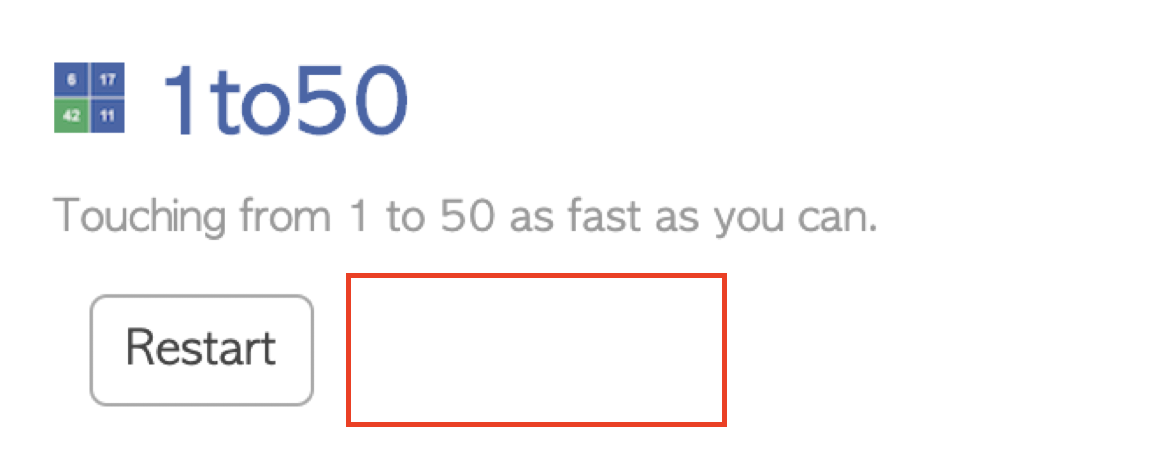
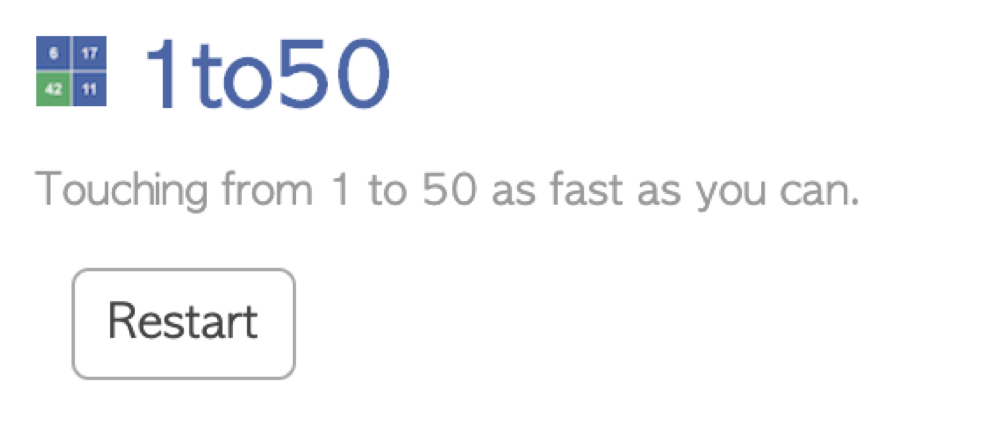
第一篇幾乎完成

Changed region(s): [[0.062, 0.5639, 0.62, 0.9201], [0.031, 0.3858, 0.868, 0.5046], [0.031, 0.0594, 0.403, 0.2968]]

diff --git a/1. 1 to 50/README.md b/1. 1 to 50/README.md
@@ -14,7 +14,7 @@
 * 達成作弊般的成績
 
 
-## 關注的知識點
+## 你將會學到
 * 什麼是變數
 * 資料型態是什麼， number , string 又是什麼
 * 如何使用 for 迴圈  
@@ -40,34 +40,32 @@
 
 ### 思考邏輯
 
-一般來說在撰寫程式的之前，要先思考現在要完成的這個功能，需要怎麼做，如何做，需要什麼樣的資訊才能夠做，我們回顧一下第一個目標：實作出類似大家來找碴的提示按鈕
+一般來說在撰寫程式的之前，要先思考現在要完成的這個功能，需要怎麼做，如何做，需要什麼樣的資訊才能夠做，回顧一下第一個目標 > 實作出類似大家來找碴的提示按鈕
 
-1 to 50 這款遊戲，是從 1 開始點到 50 ，點完後的數字會消失，我們可以發現，**我們每次要點擊的位置 就是盤上最小的數字**，我們能夠簡單的分析出待會程式的行為
+1 to 50 這款遊戲，是從 1 開始點到 50 ，點完後的數字會消失，可以發現，**我們每次要點擊的位置 就是盤上最小的數字**，能夠簡單的想像出待會程式的行為
 
 	點擊按鈕 > 找最小的數字 > 對最小數字的格子提示特效
 
-所以我們要做的事情有兩個
+所以要做的事情有兩個
 
 	1.在畫面上放一個按鈕
 	2.給予這個按鈕，找最小的數字並且顯示提示特效的能力
 
-我們可以開啟開發人員工具來觀察這個遊戲的html
+為了獲得足夠的資訊來開發這個功能，我們可以開啟開發人員工具來觀察這個遊戲的html
 
 ![1 to 50](https://raw.githubusercontent.com/jj811208/htmlGameCheat/master/asset/1.4.png)
 
-首先需要找到可以放按鈕的地方，這邊我發現遊戲中有一個reset按鈕，等等提示的按鈕可以放到它旁邊，按鈕的樣式他都寫好了，可以偷懶一下直接拿他的來用
-
-![1 to 50](https://raw.githubusercontent.com/jj811208/htmlGameCheat/master/asset/1.5.png)
+首先需要找到可以放按鈕的地方，這邊我發現遊戲中有一個Restart按鈕，等等提示的按鈕可以放到它旁邊，按鈕的樣式他都寫好了，可以偷懶直接拿他的來用
 
 接著再繼續觀察，可以發現整個遊戲盤都被裝在`<div class="grid x5" id="grid">`裡面
 
 ![1 to 50](https://raw.githubusercontent.com/jj811208/htmlGameCheat/master/asset/1.6.png)
 
-點開它底下的div就可以看到棋盤上的數字了，
-
 ![1 to 50](https://raw.githubusercontent.com/jj811208/htmlGameCheat/master/asset/1.7.png)
 
-其實到了這邊，我們就已經整理出所有我們需要的資訊了，可以開始實作我們的程式碼
+▲把div點開就可以看到棋盤上的數字了，
+
+其實到了這邊，我們就已經整理出所有開發功能需要的資訊了，可以開始進入實作的環節
 
 ### 實作
 
@@ -76,6 +74,7 @@
 >而id的功用在這邊只是幫他取名字，等等javascript才方便把提示的能力指定給它。
 
 ![1 to 50](https://raw.githubusercontent.com/jj811208/htmlGameCheat/master/asset/1.10.png)
+
 ▲成功的話應該會在Restart旁邊看到我們的按鈕
 
 按鈕出來了以後就要開始進到javascript的部分了，首先必須要讓javascript能夠找到按鈕以及遊戲盤上所有的格子，這邊我們可以使用 document.querySelector 以及 document.querySelectorAll 這兩個瀏覽器提供的能力來選擇html上的元素(注意大小寫)
@@ -92,7 +91,9 @@ var gameBlock = document.querySelectorAll('#grid > div');
 > 一個東西上做一件事來觸發一個行為
 > 
 > 一個東西：	按鈕
+> 
 > 一件事：		點擊       
+> 
 > 一個行為：	提示
 
 這裡的程式碼也很直覺
@@ -106,7 +107,7 @@ secretButton.addEventListener('click',/*提示功能*/)
 
 > addEventListener('click',xxxx) 意思就是點擊(click)的時候會觸發xxxx
 
-這樣寫提示功能上去當然是沒有效果的，程式語言沒有這種黑魔法，功能的邏輯要靠我們自己去實作的，這邊我們可以寫入我們之前想要達到的程式行為：找最小的數字並且顯示提示特效
+這樣寫提示功能上去當然是沒有效果的，程式語言沒有這種黑魔法，功能的邏輯要靠我們自己去實作的，不過邏輯我們在剛剛就已經想好了，找最小的數字並且顯示提示特效
 
 ```javascript
 var secretButton = document.querySelector('#secretButton')
@@ -139,11 +140,11 @@ function mySecret(){
 
 ......
 
-完成提示的功能後，才發現分數幾本上完全不會進步。原因是這個遊戲並不像大家來找碴一樣，提示按鈕在這款遊戲其實沒什麼屁用，點提示按鈕的步驟，實在是太拖台錢...
+完成提示的功能後，才發現分數基本上完全沒有進步。原因是這個遊戲並不像大家來找碴一樣，一個提示可以幫你省下一堆時間，在這款遊戲中提示其實沒什麼屁用，點提示按鈕所花費的時間，實在是太拖台錢...
 
-但是既然我們的程式能夠知道現在應該點哪裡，那如果我們可以用程式來模擬我們的點擊，不是就可以很快的通關了嘛？！
+但是既然我們的程式能夠知道現在應該點哪裡，那如果可以用程式來模擬我們的點擊，不是就可以很快的通關了嘛？！
 
-可以，只要我們能夠去模擬點擊遊戲格子的動作就很簡單，以下程式碼有興趣的讀者在自行去研究即可。
+這是可行的，而且不難辦到，以下程式碼有興趣的讀者再自行去研究即可。
 
 ```javascript
 var gameBlock = document.querySelectorAll('#grid > div');
@@ -165,4 +166,6 @@ for(var y=1; y<=50 ; y++)
 }
 ```
 ![1 to 50](https://raw.githubusercontent.com/jj811208/htmlGameCheat/master/asset/1.9.gif)
-▲有了這支程式，終於可以分享FB
+
+▲有了這支程式，終於可以把成績分享到FB
+

diff --git a/README.md b/README.md
@@ -35,10 +35,14 @@
 
 3.叫出開發人員工具 
 
+![1 to 50](https://raw.githubusercontent.com/jj811208/htmlGameCheat/master/asset/console.png)
+
 	快捷鍵
     
 	Windows:    F12
     
 	Mac:        option + command + i
+	
+	
 
 4.開始學習

diff --git a/2. 測色弱/README.md b/2. 測色弱/README.md
@@ -1,0 +1,7 @@
+http://game.ioxapp.com/eye-test/game.html 測色弱
+
+setInterval(function(){
+	var test = document.querySelectorAll('#box>span');
+	for(var i =0 ; i<test.length ; i++)
+		test[i].click();
+},10)
